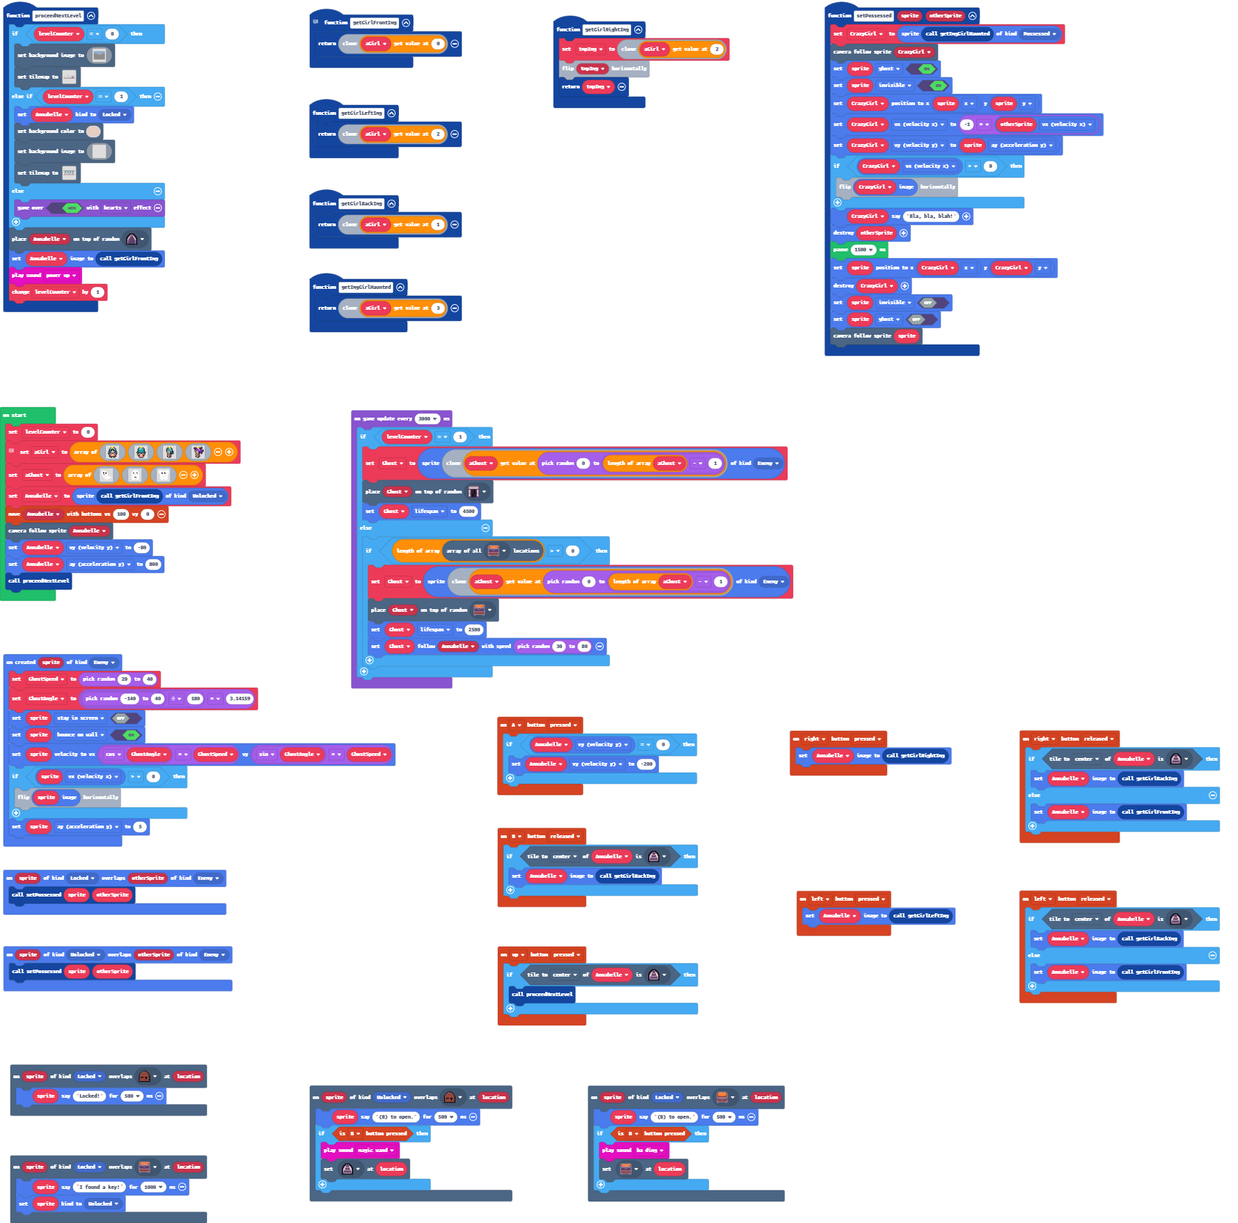
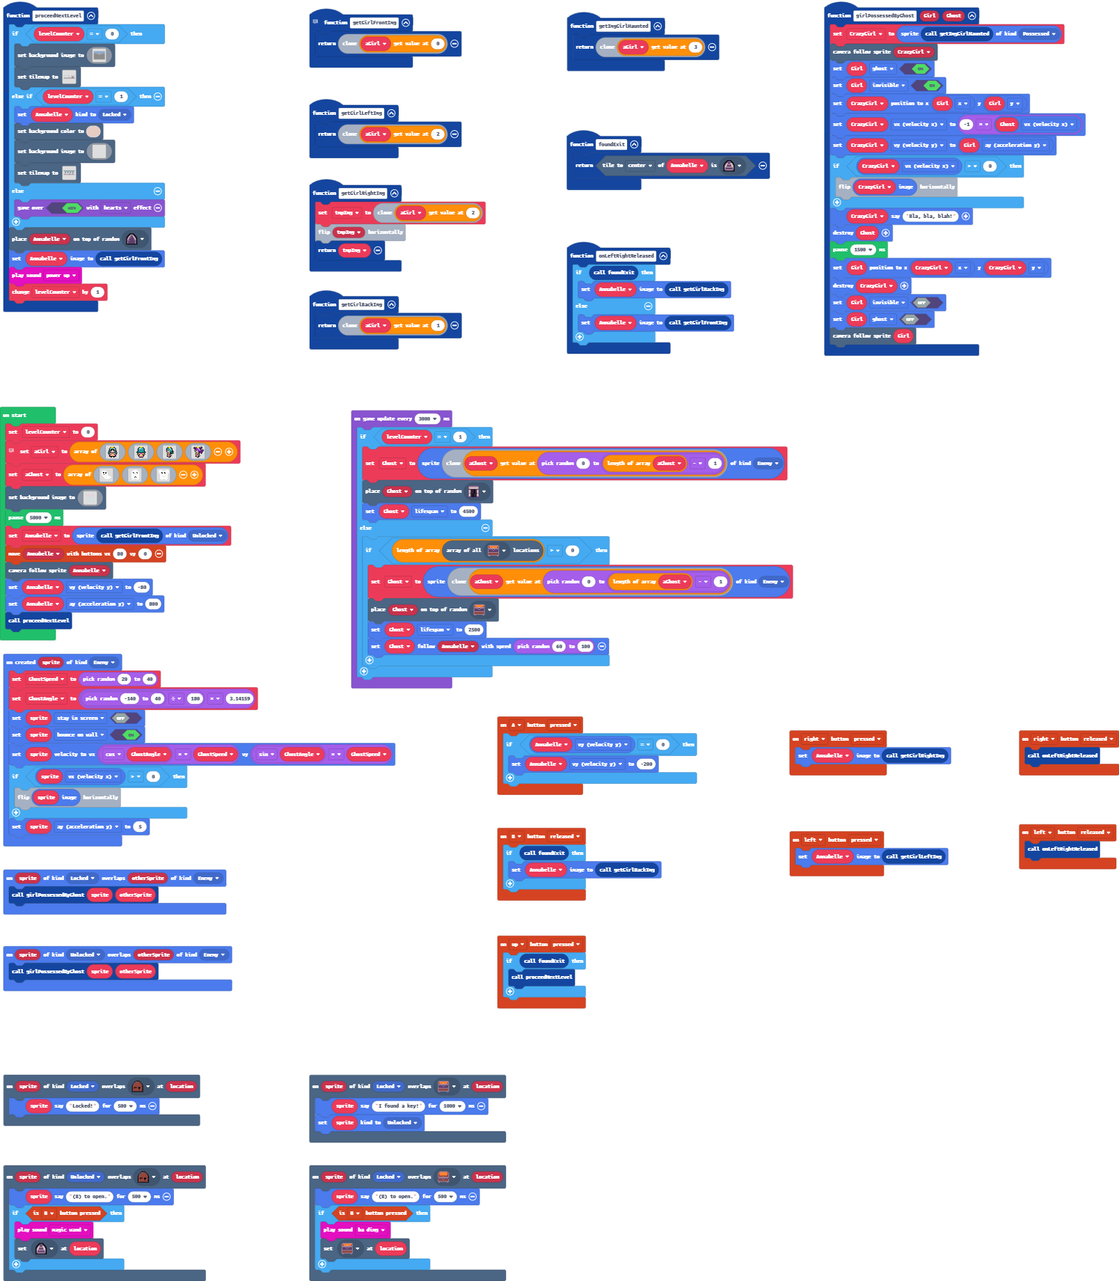
Added start screen and code cleaning

diff --git a/main.ts b/main.ts
@@ -15,7 +15,7 @@ sprites.onCreated(SpriteKind.Enemy, function (sprite) {
     sprite.ay = 5
 })
 controller.up.onEvent(ControllerButtonEvent.Pressed, function () {
-    if (Annabelle.tileKindAt(TileDirection.Center, myTiles.tile12)) {
+    if (foundExit()) {
         proceedNextLevel()
     }
 })
@@ -25,26 +25,6 @@ function getGirlFrontImg () {
 }
 function getGirlBackImg () {
     return aGirl[1].clone()
-}
-function setPossessed (sprite: Sprite, otherSprite: Sprite) {
-    CrazyGirl = sprites.create(getImgGirlHaunted(), SpriteKind.Possessed)
-    scene.cameraFollowSprite(CrazyGirl)
-    sprite.setFlag(SpriteFlag.Ghost, true)
-    sprite.setFlag(SpriteFlag.Invisible, true)
-    CrazyGirl.setPosition(sprite.x, sprite.y)
-    CrazyGirl.vx = -1 * otherSprite.vx
-    CrazyGirl.vy = sprite.ay
-    if (CrazyGirl.vx > 0) {
-        CrazyGirl.image.flipX()
-    }
-    CrazyGirl.say("Bla, bla, blah!")
-    otherSprite.destroy()
-    pause(1500)
-    sprite.setPosition(CrazyGirl.x, CrazyGirl.y)
-    CrazyGirl.destroy()
-    sprite.setFlag(SpriteFlag.Invisible, false)
-    sprite.setFlag(SpriteFlag.Ghost, false)
-    scene.cameraFollowSprite(sprite)
 }
 controller.A.onEvent(ControllerButtonEvent.Pressed, function () {
     if (Annabelle.vy == 0) {
@@ -59,7 +39,7 @@ scene.onOverlapTile(SpriteKind.Locked, sprites.dungeon.chestClosed, function (sp
     }
 })
 sprites.onOverlap(SpriteKind.Unlocked, SpriteKind.Enemy, function (sprite, otherSprite) {
-    setPossessed(sprite, otherSprite)
+    girlPossessedByGhost(sprite, otherSprite)
 })
 controller.left.onEvent(ControllerButtonEvent.Pressed, function () {
     Annabelle.setImage(getGirlLeftImg())
@@ -324,18 +304,10 @@ function proceedNextLevel () {
     levelCounter += 1
 }
 controller.right.onEvent(ControllerButtonEvent.Released, function () {
-    if (Annabelle.tileKindAt(TileDirection.Center, myTiles.tile12)) {
-        Annabelle.setImage(getGirlBackImg())
-    } else {
-        Annabelle.setImage(getGirlFrontImg())
-    }
+    onLeftRightReleased()
 })
 controller.left.onEvent(ControllerButtonEvent.Released, function () {
-    if (Annabelle.tileKindAt(TileDirection.Center, myTiles.tile12)) {
-        Annabelle.setImage(getGirlBackImg())
-    } else {
-        Annabelle.setImage(getGirlFrontImg())
-    }
+    onLeftRightReleased()
 })
 function getGirlLeftImg () {
     return aGirl[2].clone()
@@ -353,7 +325,7 @@ function getGirlRightImg () {
     return tmpImg
 }
 sprites.onOverlap(SpriteKind.Locked, SpriteKind.Enemy, function (sprite, otherSprite) {
-    setPossessed(sprite, otherSprite)
+    girlPossessedByGhost(sprite, otherSprite)
 })
 scene.onOverlapTile(SpriteKind.Unlocked, myTiles.tile10, function (sprite, location) {
     sprite.say("(B) to open.", 500)
@@ -363,19 +335,49 @@ scene.onOverlapTile(SpriteKind.Unlocked, myTiles.tile10, function (sprite, locat
     }
 })
 controller.B.onEvent(ControllerButtonEvent.Released, function () {
-    if (Annabelle.tileKindAt(TileDirection.Center, myTiles.tile12)) {
+    if (foundExit()) {
         Annabelle.setImage(getGirlBackImg())
     }
 })
+function girlPossessedByGhost (Girl: Sprite, Ghost: Sprite) {
+    CrazyGirl = sprites.create(getImgGirlHaunted(), SpriteKind.Possessed)
+    scene.cameraFollowSprite(CrazyGirl)
+    Girl.setFlag(SpriteFlag.Ghost, true)
+    Girl.setFlag(SpriteFlag.Invisible, true)
+    CrazyGirl.setPosition(Girl.x, Girl.y)
+    CrazyGirl.vx = -1 * Ghost.vx
+    CrazyGirl.vy = Girl.ay
+    if (CrazyGirl.vx > 0) {
+        CrazyGirl.image.flipX()
+    }
+    CrazyGirl.say("Bla, bla, blah!")
+    Ghost.destroy()
+    pause(1500)
+    Girl.setPosition(CrazyGirl.x, CrazyGirl.y)
+    CrazyGirl.destroy()
+    Girl.setFlag(SpriteFlag.Invisible, false)
+    Girl.setFlag(SpriteFlag.Ghost, false)
+    scene.cameraFollowSprite(Girl)
+}
 function getImgGirlHaunted () {
     return aGirl[3].clone()
+}
+function onLeftRightReleased () {
+    if (foundExit()) {
+        Annabelle.setImage(getGirlBackImg())
+    } else {
+        Annabelle.setImage(getGirlFrontImg())
+    }
 }
 scene.onOverlapTile(SpriteKind.Locked, myTiles.tile10, function (sprite, location) {
     sprite.say("Locked!", 500)
 })
+function foundExit () {
+    return Annabelle.tileKindAt(TileDirection.Center, myTiles.tile12)
+}
 let Ghost: Sprite = null
-let tmpImg: Image = null
 let CrazyGirl: Sprite = null
+let tmpImg: Image = null
 let GhostAngle = 0
 let GhostSpeed = 0
 let Annabelle: Sprite = null
@@ -504,8 +506,131 @@ let aGhost = [img`
     . . . . 1 1 1 . . . 1 1 1 . . . 
     . . . . . . . . . . . . . . . . 
     `]
+scene.setBackgroundImage(img`
+    ................................................................................................................................................................
+    ................................................................................................................................................................
+    ................................................................................................................................................................
+    ................................................................................................................................................................
+    ................................................................................................................................................................
+    ................................................................................................................................................................
+    ................................................................................................................................................................
+    .......................33333....................................................................................................................................
+    ...........33333333333333933....................................................................................................................................
+    ...........33333333333333393.......................................................................333..........................................................
+    ...........33333333333333333.......................................................................333..........................................................
+    ...........33333333333333333.......................................................................333..........................................................
+    ...........33333333333333333....................................................................................................................................
+    .................33333..........................................................................................................................................
+    .................33333..........................................................................................................................................
+    .................33333..........................................................................................................................................
+    .................33333.........333....3333.........................333333333.....333....3333............................................33333...................
+    .................33333.........333..3333333........3333333........33333333333....333..3333333...............33333333.....333...333.....3333333..................
+    .................33333.........3333333333333......333333333.......33333333333....3333333333333.....333.....3333333333....333...333....33333333..................
+    .................33333.........333333333.333......3333333333......3333...3333....333333333.333.....333....33333333333....333...333....3333...3..................
+    .................33333.........3333333...333......3333..3333......33333333333....3333333...333.....333....3333...3333....333...333....333.......................
+    .................33333.........333333....333......333...3333......33333333333....333333....333.....333....333.....333....333...333....333.......................
+    .................33333.........3333......333......333....3333.....3333333333.....3333......333.....333....333.....333....333...333....333333....................
+    ..........333333333333333333...333.......3333.....333....3333.....333............333.......3333....333....333.....333....333...333....3333333...................
+    ..........333333333333333333...333.......3333.....33333.33333.....333............333.......3333....333....3333....333....3333.3333.....3333333..................
+    ..........393333333333333333...333.......3333.....33333333333.....3333...........333.......3333....3333...33333333333....33333333.........3333..................
+    ..........339333333333333333...333........333......3333333333.....333333333......333........333....3333....333333333......3333333....333..3333..................
+    ..........3333333333333........333........333........33333333......333333333.....333........333....3333.....33333333.......33333.....393333333..................
+    .........................................................3333........3333333.........................................................33933333...................
+    ......................................................333333333.......................................................................333333....................
+    ...................................................333333333333.................................................................................................
+    ..................................................3333333333333.................................................................................................
+    .................................................3333333..333...................................................................................................
+    ................................................33333.....333...................................................................................................
+    ...............................................33333.....3333...............999999999999999.....................................................................
+    ...............................................3333.....33333..............3333333333333339.....................................................................
+    ...............................................3333...333333..............33333333333333339....999..................9999........................................
+    ...............................................3933333333333.............333333333333333339...3339.................33339........................................
+    ...............................................339333333333.............3333333333333333339...3339.................33339........................................
+    ........................3333333..................3333333................333333333333333333....333..................33339........................................
+    ......................399999993........................................333333333...................................33339........................................
+    .....................99999999933.......................................33333333....................................33339........................................
+    ....................999999999993.......................................3333333.....................................33339.....................333................
+    ....................99999..99993.......................................3333339.....99999999........................3333.....................9993................
+    ....................9999....9993.......................................333333.....333333339........................3339.................333.9993...333..........
+    ....................99933...9993.......................................333339.....333333339....999.....999..99999..3339................999339993..9993..........
+    ....................999933..9993.......................................333339.....333333339...3339....3339.333339..3339................999939993.99993..........
+    ....................999993399993.......................................333339.....333333339...3339....33393333339..3339................99999999399999...........
+    ....................999999999993.......................................3333399....333333339...3339....3333333333...3339.................999999999999............
+    .....................9999999999..333...................................3333339999....333339...3339.....33333.......3339..................9999999999.............
+    ....................999999999...9993...................................33333333399993333339...3339......3339.......3339..............3333999999999333333........
+    ...................99999999933399993...................................33333333333333333339...3339......3339.......3339999..........99999999999999999993........
+    ..................999999999999399993...................................33333333333333333339...33399.....3339.......3333339..........99999999999999999993........
+    ..................99999.99999999999.....................................3333333333333333339...33339.....3339.......3333339..........9999999999999999999.........
+    .................99999....999999993......................................33333333333333333....3333......333.........33333................9999999993.............
+    .................9999......999999933....................................................................................................999999999933............
+    .................9993......39999999333.................................................................................................99999999999933...........
+    .................9993....3999999999993................................................................................................99999.9999999933..........
+    .................999333399999999999993................................................................................................9999..9993999993..........
+    .................9999999999999...9999..................99999..........................................................................999...9993.99993..........
+    ..................99999999999.......................9999999999..............................................................................9993..999...........
+    ...................99999999........................99999999399..............................................................................999.................
+    ..................................................999999999939..................................................................................................
+    .................................................9999999999999..................................................................................................
+    ................................................99999999999999..................................................................................................
+    ................................................99999999999999.............................9999.................................................................
+    ...............................................999999999...................................9999.................................................................
+    ...............................................99999999....................................9999......999........................................................
+    ...............................................9999999.....................................9999......999........................................................
+    ...............................................999999......................................999.......999........................................................
+    ..............................................9999999......................................999..................................................................
+    ..............................................999999.......................................999..................................................................
+    ..............................................999999.......................................999..................................................................
+    ..............................................999999.......................................999..................................................................
+    ..............................................99999........................................999...............999....9999........................................
+    ..............................................99999...................99999999........99999999...............999..9999999......9999999..........................
+    ..............................................99999..................9999999999.....9999999999.......999.....9999999999999....999999999.........................
+    ..............................................99999.................99999999999....99999999999.......999.....999999999.999....9999999999........................
+    ..............................................999999.......999999...99999..9999....99999..9999.......999.....9999999...999....9999..9999........................
+    ..............................................99999999.....999939...9999....999....9999...99999......999.....999999....999....999...9999........................
+    ..............................................999999999...9999399...999.....999....999....99999......999.....9999......999....999....9999.......................
+    ...............................................999999999999999999...9999....999....999....9999999....999.....999.......9999...999....9999.......................
+    ...............................................99999999999999999....99999..9999....9999..99999999....999.....999.......9999...99999.99999.......................
+    ................................................9939999999999999....99999999999....999999999999999...9999....999.......9999...99999999999.......................
+    .................................................99939999999999......999999999.....9999999999.9999...9999....999........999....9999999999.......................
+    ..................................................999999999999........99999999......999999999..999...9999....999........999......99999999.......................
+    .....................................................................................................................................9999.......................
+    ..................................................................................................................................999999999.....................
+    ...............................................................................................................................999999999999.....................
+    ............................................................3333333333333.....................................................9999999999999.....................
+    ...........................................................999999999999933...................................................9999999..999.......................
+    ...........................................................9999999999999933.................................................99999.....999.......................
+    ...........................................................99999999999999933.....................................3333......99999.....9999.......................
+    ...........................................................999999999999999933...................................99993......9999.....99999.......................
+    ...........................................................9999999999999999933..................................99993......9999...999999........................
+    .............................................................999993.99999999933.................................9999.......9399999999999........................
+    .............................................................999993..99999999933................................9993.......993999999999.........................
+    .............................................................999993...99999999933...............................9993.........9999999............................
+    .............................................................999993....99999999933..............................9993............................................
+    .............................................................999993.....99999999933......3333333333.............99933...........................................
+    .............................................................999993......9999999993.....99999999993........3333399993...........................................
+    .............................................................999993.......999999993....9999999999933......99999999993...........................................
+    .............................................................999993........99999993...99999999999993......99999999993...........................................
+    .............................................................999993.........9999993...99999...9999933....999999999993...........................................
+    .............................................................999993..........999993...9999.....999993....9999...99993...........................................
+    .............................................................9999933333333339999993...9993.....999993....9993...99993...........................................
+    .............................................................9999999999999999999993...99933....999993....999333999993...........................................
+    .............................................................9999999999999999999993...9999333399999933...9999999999933..........................................
+    .............................................................999999999999999999999....9999999999999993...9999999999993..........................................
+    ...............................................................999999999999999999.....9999999999.99993....999999999993..........................................
+    ...............................................................99999999999999999.......99999999..9999......9999..9999...........................................
+    ................................................................................................................................................................
+    ................................................................................................................................................................
+    ................................................................................................................................................................
+    ................................................................................................................................................................
+    ................................................................................................................................................................
+    ................................................................................................................................................................
+    ................................................................................................................................................................
+    ................................................................................................................................................................
+    ................................................................................................................................................................
+    `)
+pause(5000)
 Annabelle = sprites.create(getGirlFrontImg(), SpriteKind.Unlocked)
-controller.moveSprite(Annabelle, 100, 0)
+controller.moveSprite(Annabelle, 80, 0)
 scene.cameraFollowSprite(Annabelle)
 Annabelle.vy = -80
 Annabelle.ay = 800
@@ -520,7 +645,7 @@ game.onUpdateInterval(3000, function () {
             Ghost = sprites.create(aGhost[randint(0, aGhost.length - 1)].clone(), SpriteKind.Enemy)
             tiles.placeOnRandomTile(Ghost, sprites.dungeon.chestOpen)
             Ghost.lifespan = 2500
-            Ghost.follow(Annabelle, randint(30, 80))
+            Ghost.follow(Annabelle, randint(60, 100))
         }
     }
 })
